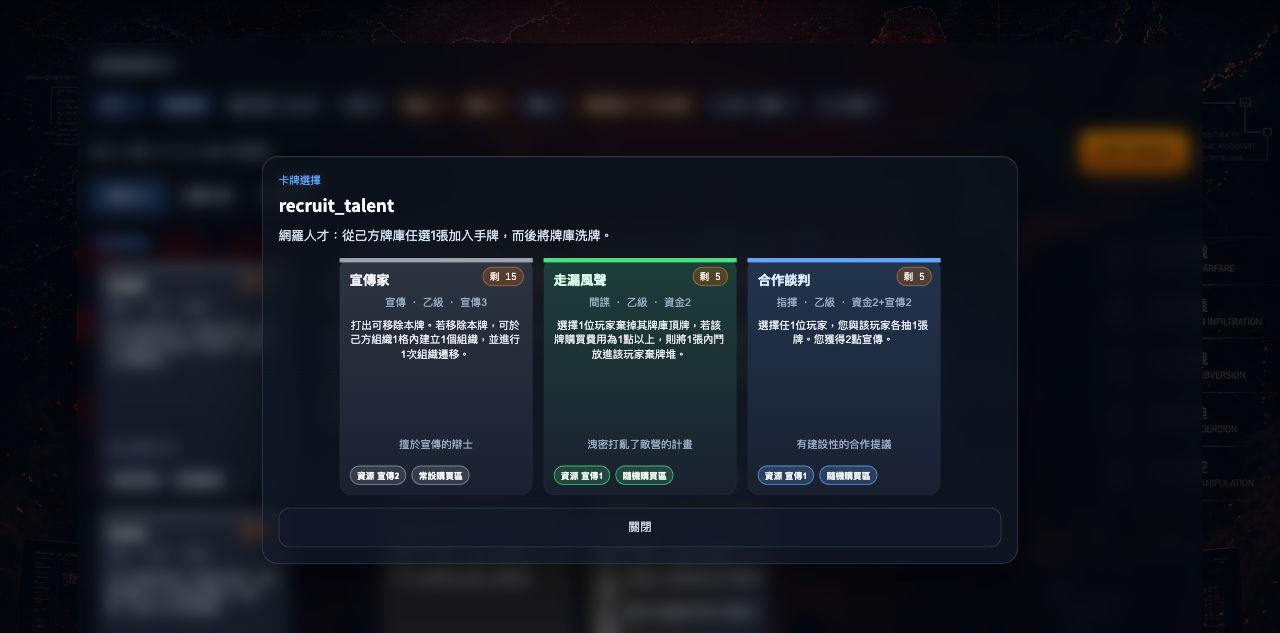
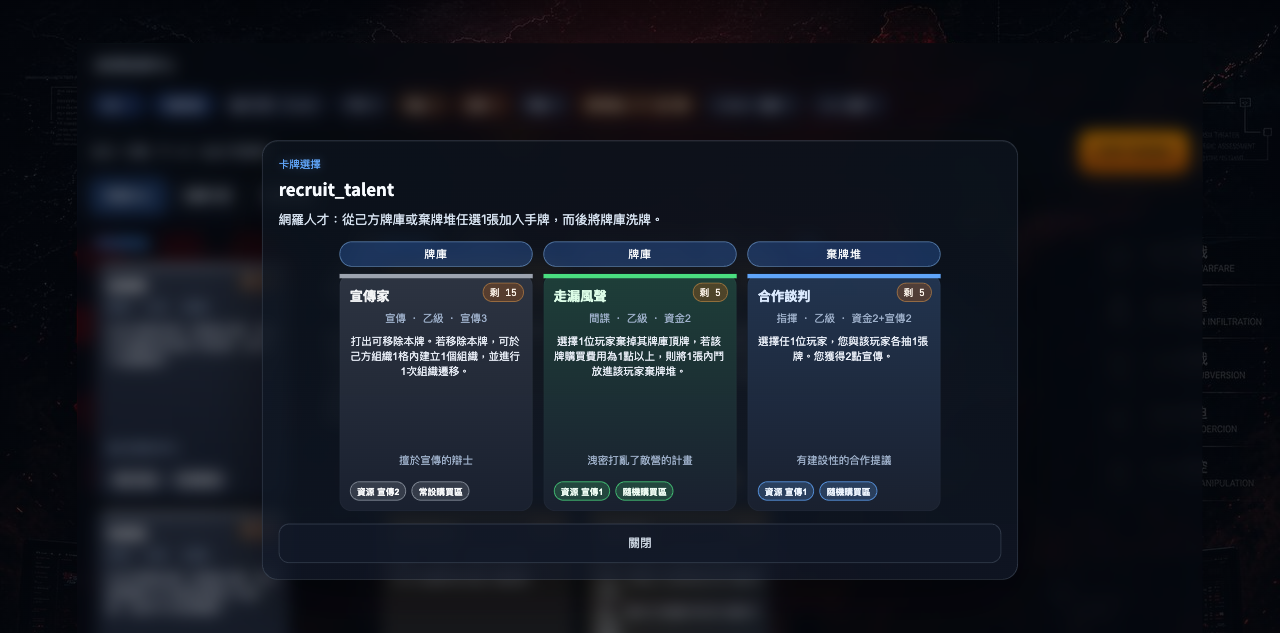
[verified] clarify red army recruit talent discard proof

diff --git a/server/game.py b/server/game.py
@@ -357,11 +357,22 @@ class Game:
         return None
 
     def _set_pending_card_choice(self, player, choice_key, cards, prompt, **extra):
+        card_list = list(cards)
+        card_zones = extra.pop('card_zones', None)
+        if card_zones:
+            normalized_cards = []
+            for card, zone in zip(card_list, card_zones):
+                normalized_cards.append({
+                    'card': card,
+                    'zone': zone.get('zone') if isinstance(zone, dict) else None,
+                    'zone_label': zone.get('zone_label') if isinstance(zone, dict) else None,
+                })
+            card_list = normalized_cards
         self.pending_choice = {
             'type': 'card_choice',
             'choice_key': choice_key,
             'player_id': player.id,
-            'cards': list(cards),
+            'cards': card_list,
             'prompt': prompt,
             **extra,
         }
@@ -463,23 +474,38 @@ class Game:
 
         if choice_key == 'recruit_talent':
             source_cards = choice.get('source_cards') or []
+            chosen_entry = chosen if isinstance(chosen, dict) else None
+            chosen_card = chosen_entry.get('card') if chosen_entry else chosen
+            source_zone = None
+            if chosen_entry:
+                source_zone = chosen_entry.get('zone')
+            elif chosen_card in player.deck.discard_pile:
+                source_zone = 'discard_pile'
+            elif chosen_card in player.deck.draw_pile:
+                source_zone = 'draw_pile'
             for card in list(source_cards):
-                if card is chosen:
+                if card is chosen_card:
                     continue
                 if card in player.deck.draw_pile:
                     player.deck.draw_pile.remove(card)
                 if card in player.deck.discard_pile:
                     player.deck.discard_pile.remove(card)
-            if chosen in player.deck.draw_pile:
-                player.deck.draw_pile.remove(chosen)
-            if chosen in player.deck.discard_pile:
-                player.deck.discard_pile.remove(chosen)
-            player.hand.append(chosen)
+            if chosen_card in player.deck.draw_pile:
+                player.deck.draw_pile.remove(chosen_card)
+                source_zone = source_zone or 'draw_pile'
+            if chosen_card in player.deck.discard_pile:
+                player.deck.discard_pile.remove(chosen_card)
+                source_zone = source_zone or 'discard_pile'
+            player.hand.append(chosen_card)
             import random
             random.shuffle(player.deck.draw_pile)
             self.pending_choice = None
-            self.log(f"{player.name} recruited {getattr(chosen, 'name', str(chosen))} from deck")
-            return {'success': True, 'chosen_card': getattr(chosen, 'name', str(chosen))}
+            chosen_name = getattr(chosen_card, 'name', str(chosen_card))
+            if source_zone == 'discard_pile':
+                self.log(f"{player.name} recruited {chosen_name} from discard via 網羅人才")
+            else:
+                self.log(f"{player.name} recruited {chosen_name} from deck")
+            return {'success': True, 'chosen_card': chosen_name, 'source_zone': source_zone}
 
         if choice_key in {'gain_any_from_discard', 'gain_from_discard'}:
             if chosen not in player.deck.discard_pile:

diff --git a/server/effect_engine.py b/server/effect_engine.py
@@ -221,8 +221,17 @@ class EffectEngine:
         # ✅ Choose any card from own deck (網羅人才)
         if etype == "choose_from_own_deck":
             cards = list(player.deck.draw_pile)
+            card_zones = [
+                {'zone': 'draw_pile', 'zone_label': '牌庫'}
+                for _ in player.deck.draw_pile
+            ]
             if effect.get('include_discard_for_faction') == player.faction_id:
-                cards.extend(player.deck.discard_pile)
+                discard_cards = list(player.deck.discard_pile)
+                cards.extend(discard_cards)
+                card_zones.extend(
+                    {'zone': 'discard_pile', 'zone_label': '棄牌堆'}
+                    for _ in discard_cards
+                )
             if not cards:
                 return
             if hasattr(game, '_set_pending_card_choice'):
@@ -230,8 +239,9 @@ class EffectEngine:
                     player,
                     'recruit_talent',
                     cards,
-                    '網羅人才：從己方牌庫任選1張加入手牌，而後將牌庫洗牌。',
+                    '網羅人才：從己方牌庫或棄牌堆任選1張加入手牌，而後將牌庫洗牌。' if effect.get('include_discard_for_faction') == player.faction_id else '網羅人才：從己方牌庫任選1張加入手牌，而後將牌庫洗牌。',
                     source_cards=cards[:],
+                    card_zones=card_zones,
                 )
             else:
                 game.pending_choice = {
@@ -240,9 +250,10 @@ class EffectEngine:
                     'player_id': player.id,
                     'cards': cards,
                     'source_cards': cards[:],
-                    'prompt': '網羅人才：從己方牌庫任選1張加入手牌，而後將牌庫洗牌。'
+                    'card_zones': card_zones,
+                    'prompt': '網羅人才：從己方牌庫或棄牌堆任選1張加入手牌，而後將牌庫洗牌。' if effect.get('include_discard_for_faction') == player.faction_id else '網羅人才：從己方牌庫任選1張加入手牌，而後將牌庫洗牌。'
                 }
-            game.log(f"{player.name} may recruit 1 card from deck")
+            game.log(f"{player.name} may recruit 1 card from deck/discard" if effect.get('include_discard_for_faction') == player.faction_id else f"{player.name} may recruit 1 card from deck")
             return
 
         # ✅ Temporarily use another player's top deck card (模仿戰術)

diff --git a/scripts/tests/test_action_card_regressions.py b/scripts/tests/test_action_card_regressions.py
@@ -25,7 +25,12 @@ def card(g, name):
 
 
 def names(cards):
-    return [getattr(c, 'name', str(c)) for c in cards]
+    result = []
+    for c in cards:
+        if isinstance(c, dict) and 'card' in c:
+            c = c['card']
+        result.append(getattr(c, 'name', str(c)))
+    return result
 
 
 def play_only(g, name):
@@ -104,16 +109,22 @@ def test_red_army_recruit_talent_can_select_from_own_deck_or_discard():
     assert g.pending_choice and g.pending_choice['type'] == 'card_choice'
     assert g.pending_choice['choice_key'] == 'recruit_talent'
     assert names(g.pending_choice['cards']) == ['DeckChoiceA', 'DeckChoiceB', 'DiscardChoice']
+    assert g.state()['pending_choice']['cards'] == [
+        {'name': 'DeckChoiceA', 'zone': 'draw_pile', 'zone_label': '牌庫'},
+        {'name': 'DeckChoiceB', 'zone': 'draw_pile', 'zone_label': '牌庫'},
+        {'name': 'DiscardChoice', 'zone': 'discard_pile', 'zone_label': '棄牌堆'},
+    ]
 
     resolved = g.resolve_pending_choice(p.id, 2)
 
     assert resolved.get('success'), resolved
+    assert resolved.get('source_zone') == 'discard_pile'
     assert names(p.hand) == ['DiscardChoice']
     assert names(p.deck.discard_pile) == ['網羅人才']
     assert 'DeckChoiceA' not in names(p.deck.draw_pile)
     assert 'DeckChoiceB' not in names(p.deck.draw_pile)
     assert g.pending_choice is None
-    assert any('recruited DiscardChoice from deck' in entry for entry in g.action_log)
+    assert any('recruited DiscardChoice from discard via 網羅人才' in entry for entry in g.action_log)
 
 
 def test_red_support_requires_red_army_to_choose_rebel_discard_target_before_resolving_resource_mode():

diff --git a/TODO.md b/TODO.md
@@ -55,7 +55,7 @@
   - 2026-05-18：以 `POST /test/setup-recruit-talent-proof` 建立真實 UI 場景，截圖證明一般版本起始手牌有 `網羅人才`，打出後 `card_choice` / `recruit_talent` modal 列出己方牌庫候選 `宣傳家` / `合作談判` / `走漏風聲`，選 `合作談判` 後手牌變為 `合作談判`。
   - 2026-05-18：補紅軍特例 regression 與正式 UI 證據；紅軍 viewer（北京）打出 `網羅人才` 時，modal 同時列出牌庫 `宣傳家` / `走漏風聲` 與棄牌堆 `合作談判`，選棄牌堆 `合作談判` 後手牌變為 `合作談判`，棄牌堆只剩 `網羅人才`。
   - 產物：`docs/records/action-cards/ACTION_CARD_RECRUIT_TALENT_UI_SCREENSHOTS_2026_05_18.md`、`docs/records/action-cards/ACTION_CARD_RECRUIT_TALENT_UI_2026_05_18_*.png`、`docs/records/action-cards/ACTION_CARD_RECRUIT_TALENT_RED_ARMY_UI_2026_05_18_*.png`。
-  - 戰況紀錄：一般版 log 寫入 `viewer recruited 合作談判 from deck`；紅軍版 log 寫入 `deck/discard choices include 宣傳家 / 走漏風聲 / 合作談判` 與 `viewer recruited 合作談判 from deck`。
+  - 戰況紀錄：一般版 log 寫入 `viewer recruited 合作談判 from deck`；紅軍版 modal 明確標示 `合作談判` 來源為 `棄牌堆`，log 寫入 `deck/discard choices include 宣傳家 / 走漏風聲 / 合作談判` 與 `viewer recruited 合作談判 from discard via 網羅人才`。
 - [done] 地下黨：補正式 UI 截圖證據。
   - 2026-05-18：以 `POST /test/setup-underground-party` 建立真實 UI 場景，截圖證明起始手牌有 `地下黨`，打出後 `card_choice` modal 揭示購買牌庫頂 3 張 `宣傳家` / `合作談判` / `走漏風聲`，選 `合作談判` 後手牌變為 `合作談判`。
   - 產物：`docs/records/action-cards/ACTION_CARD_UNDERGROUND_PARTY_UI_SCREENSHOTS_2026_05_18.md`、`docs/records/action-cards/ACTION_CARD_UNDERGROUND_PARTY_UI_2026_05_18_*.png`。

diff --git a/docs/records/action-cards/ACTION_CARD_RECRUIT_TALENT_UI_SCREENSHOTS_2026_05_18.md b/docs/records/action-cards/ACTION_CARD_RECRUIT_TALENT_UI_SCREENSHOTS_2026_05_18.md
@@ -72,7 +72,9 @@ Fixture endpoint：`POST /test/setup-recruit-talent-proof`
 2. `ACTION_CARD_RECRUIT_TALENT_RED_ARMY_UI_2026_05_18_02_CHOICE_MODAL.png`
    - 打出 `網羅人才` 後顯示 `卡牌選擇` modal。
    - modal key 顯示 `recruit_talent`。
+   - prompt 顯示紅軍特例文字：`從己方牌庫或棄牌堆任選1張加入手牌`。
    - 候選卡同時包含牌庫的 `宣傳家` / `走漏風聲` 與棄牌堆的 `合作談判`。
+   - UI 來源標籤明確顯示：`宣傳家` 與 `走漏風聲` 標為 `牌庫`，`合作談判` 標為 `棄牌堆`。
 
 3. `ACTION_CARD_RECRUIT_TALENT_RED_ARMY_UI_2026_05_18_03_AFTER_HAND.png`
    - 選棄牌堆來源的 `合作談判` 後 modal 關閉。
@@ -83,9 +85,9 @@ Fixture endpoint：`POST /test/setup-recruit-talent-proof`
    - viewer discard pile 只剩 `網羅人才`，表示 `合作談判` 已從棄牌堆移入手牌。
    - 事件紀錄包含：
      - `[Turn 1] UI proof setup: viewer has 網羅人才; deck/discard choices include 宣傳家 / 走漏風聲 / 合作談判.`
-     - `[Turn 1] viewer may recruit 1 card from deck`
+     - `[Turn 1] viewer may recruit 1 card from deck/discard`
      - `[Turn 1] viewer played 網羅人才`
-     - `[Turn 1] viewer recruited 合作談判 from deck`
+     - `[Turn 1] viewer recruited 合作談判 from discard via 網羅人才`
 
 ## Structured browser state evidence
 
@@ -114,9 +116,9 @@ draw_pile: []
 discard_pile: ['網羅人才']
 action_log last entries:
 - [Turn 1] UI proof setup: viewer has 網羅人才; deck/discard choices include 宣傳家 / 走漏風聲 / 合作談判.
-- [Turn 1] viewer may recruit 1 card from deck
+- [Turn 1] viewer may recruit 1 card from deck/discard
 - [Turn 1] viewer played 網羅人才
-- [Turn 1] viewer recruited 合作談判 from deck
+- [Turn 1] viewer recruited 合作談判 from discard via 網羅人才
 ```
 
 ## Verification commands
